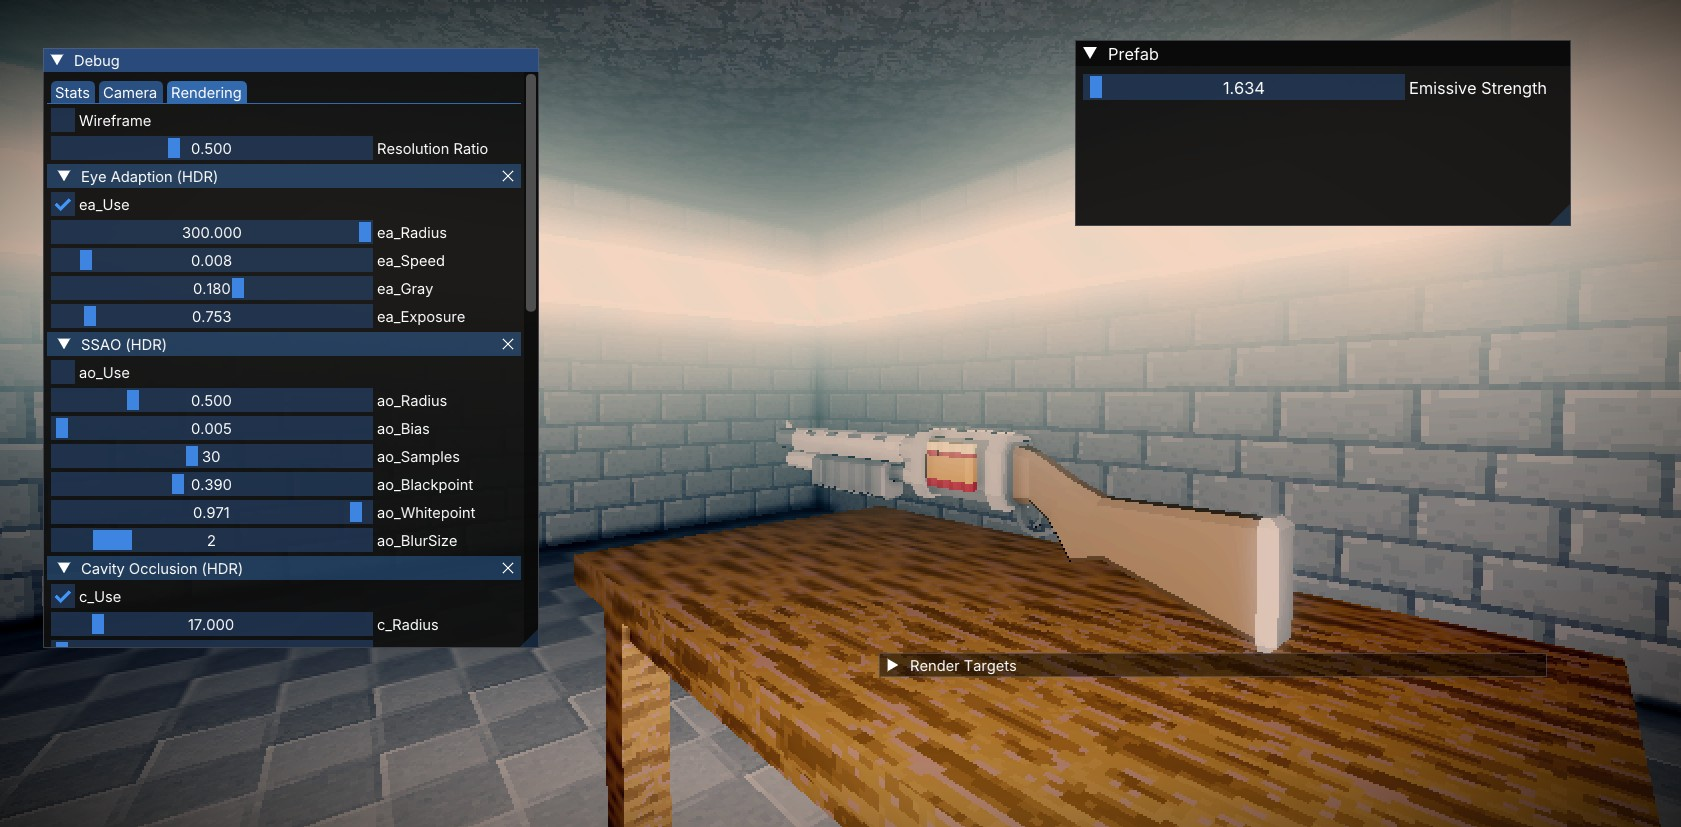
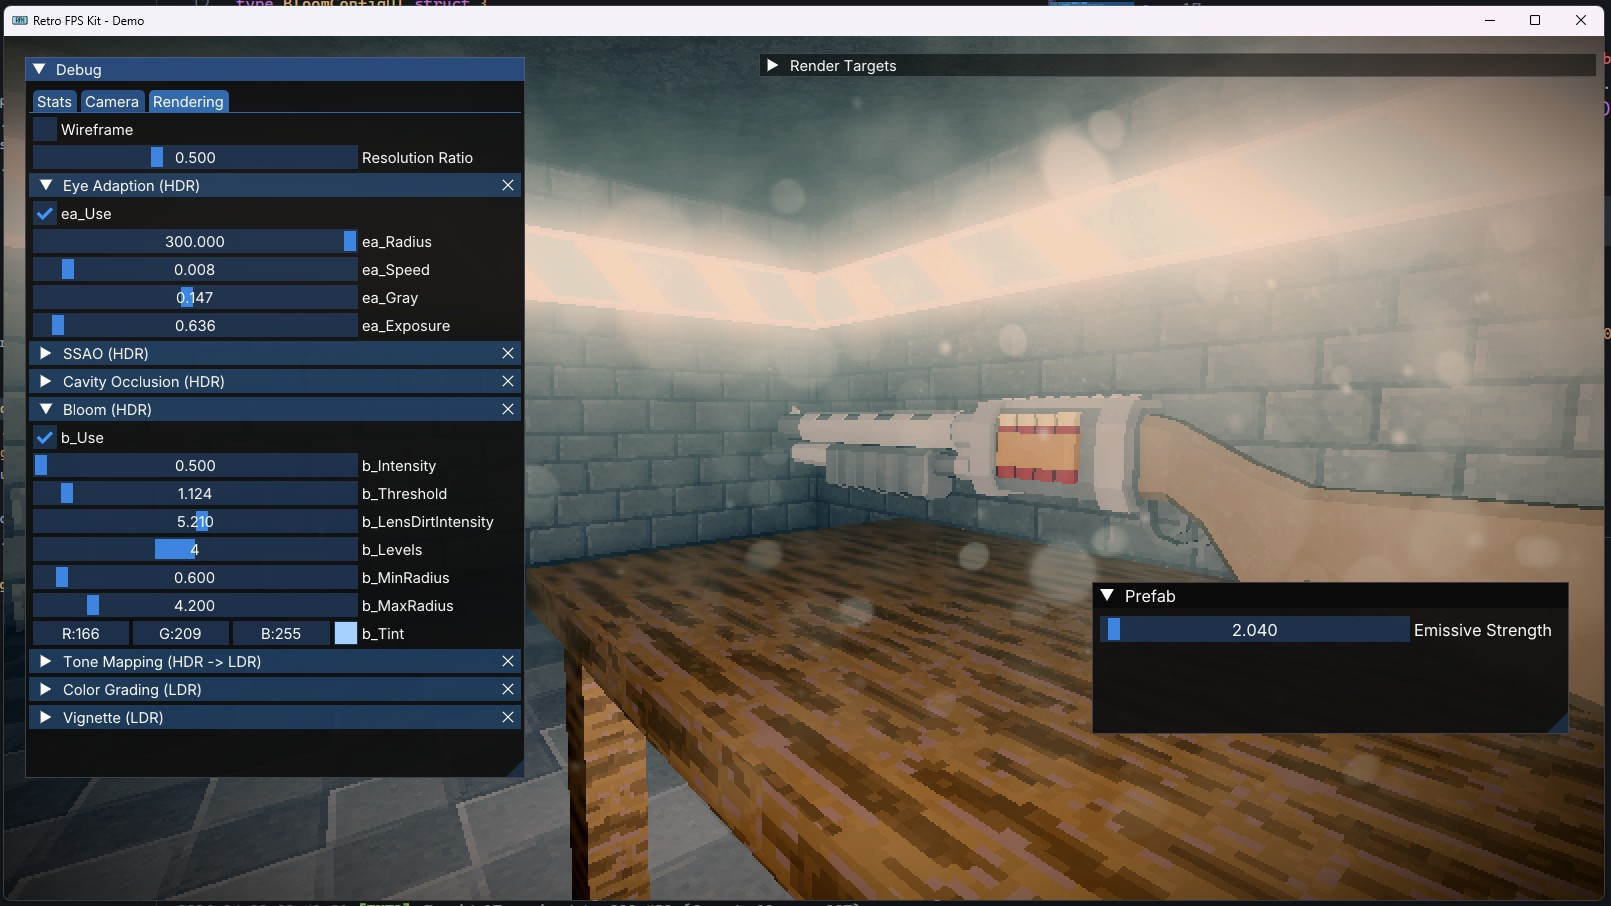
bloom lens dirt

diff --git a/pkg/app/defaults.go b/pkg/app/defaults.go
@@ -2,8 +2,12 @@ package app
 
 import (
 	"fmt"
+	"image"
+	"image/color"
+	"unsafe"
 
 	"github.com/illoprin/retro-fps-kit-go/pkg/core/files"
+	"github.com/illoprin/retro-fps-kit-go/pkg/core/logger"
 	"github.com/illoprin/retro-fps-kit-go/pkg/core/window"
 	"github.com/illoprin/retro-fps-kit-go/pkg/render/post"
 	"github.com/illoprin/retro-fps-kit-go/pkg/render/rhi"
@@ -47,13 +51,14 @@ var (
 	}
 
 	BloomConfig = &post.BloomConfig{
-		Use:       true,
-		Threshold: 1.124,
-		Levels:    4,
-		MinRadius: 0.6,
-		MaxRadius: 4.2,
-		Tint:      [3]float32{0.65, 0.82, 1.0},
-		Intensity: 1.6,
+		Use:               true,
+		Threshold:         1.124,
+		Levels:            4,
+		MinRadius:         0.6,
+		MaxRadius:         4.2,
+		LensDirtIntensity: 4.7,
+		Tint:              [3]float32{0.65, 0.82, 1.0},
+		Intensity:         0.7,
 	}
 
 	ToneMappingConfig = &post.ToneMappingConfig{
@@ -128,6 +133,10 @@ func NewDefaultPipeline(screen *window.ScreenConfig) (*DefaultPipeline, error) {
 		return nil, err
 	}
 
+	// lens dirt texture
+
+	var lensDirt *rhi.Texture = loadLensDirtTexture()
+
 	p.resources = append(p.resources, quad, noiseTexture, blurProg, compProg)
 
 	// create pass objects
@@ -164,7 +173,7 @@ func NewDefaultPipeline(screen *window.ScreenConfig) (*DefaultPipeline, error) {
 	}
 
 	// -- bloomPass
-	bloomPass, err := post.NewBloomPass(shared, BloomConfig)
+	bloomPass, err := post.NewBloomPass(shared, BloomConfig, lensDirt)
 	if err != nil {
 		p.Delete()
 		return nil, fmt.Errorf("bloom pass - %w", err)
@@ -230,6 +239,36 @@ func NewDefaultPipeline(screen *window.ScreenConfig) (*DefaultPipeline, error) {
 	})
 
 	return p, nil
+}
+
+func loadLensDirtTexture() (lensDirt *rhi.Texture) {
+	W, H, img, err := files.LoadImage(files.GetTexturePath("lens_dirt.png"))
+
+	if err != nil {
+		logger.Warnf("lens dirt not found")
+		return nil
+	}
+
+	var x, y int
+	lensDirtImage := image.NewGray(img.Bounds())
+	for i := 0; i < W*H; i++ {
+		x = i % W
+		y = i / W
+		r, _, _, _ := img.At(x, y).RGBA()
+		lensDirtImage.Set(x, H-y-1, color.Gray{Y: uint8(r)})
+	}
+
+	if len(lensDirtImage.Pix) <= 0 {
+		return nil
+	}
+
+	lensDirtConfig := rhi.DefaultTexture2DConfig(int32(W), int32(H))
+	lensDirtConfig.Format = rhi.FormatR8
+	lensDirtConfig.FilterMin = rhi.FilterLinear
+	lensDirtConfig.FilterMag = rhi.FilterLinear
+	lensDirt = rhi.NewTexture(lensDirtConfig)
+	lensDirt.Upload2D(0, 0, unsafe.Pointer(&lensDirtImage.Pix[0]))
+	return lensDirt
 }
 
 func (p *DefaultPipeline) Delete() {

diff --git a/pkg/render/post/bloom.go b/pkg/render/post/bloom.go
@@ -6,6 +6,7 @@ import (
 
 	"github.com/go-gl/gl/v4.1-core/gl"
 	"github.com/illoprin/retro-fps-kit-go/pkg/core/files"
+	"github.com/illoprin/retro-fps-kit-go/pkg/core/logger"
 	"github.com/illoprin/retro-fps-kit-go/pkg/core/window"
 	"github.com/illoprin/retro-fps-kit-go/pkg/render/context"
 	"github.com/illoprin/retro-fps-kit-go/pkg/render/pipeline"
@@ -13,13 +14,14 @@ import (
 )
 
 type BloomConfig struct {
-	Use       bool
-	Threshold float32
-	Levels    int32
-	MinRadius float32
-	MaxRadius float32
-	Tint      [3]float32
-	Intensity float32
+	Use               bool
+	Threshold         float32
+	Levels            int32
+	MinRadius         float32
+	MaxRadius         float32
+	LensDirtIntensity float32
+	Tint              [3]float32
+	Intensity         float32
 }
 
 // Blur radiuses:
@@ -43,6 +45,8 @@ type BloomPass struct {
 	combineProgram *rhi.Program
 	addProgram     *rhi.Program
 
+	lensDirt *rhi.Texture
+
 	mesh      *rhi.Mesh
 	screenCfg *window.ScreenConfig
 	cfg       *BloomConfig
@@ -53,12 +57,18 @@ type BloomPass struct {
 func NewBloomPass(
 	s PassSharedResources,
 	cfg *BloomConfig,
+	lensDirt *rhi.Texture,
 ) (*BloomPass, error) {
 
 	p := &BloomPass{
 		screenCfg: s.ScreenConfig,
 		mesh:      s.MeshQuad,
 		cfg:       cfg,
+		lensDirt:  lensDirt,
+	}
+
+	if lensDirt == nil {
+		logger.Warnf("failed to resolve lens dirt texture")
 	}
 
 	if err := p.initFramebuffers(); err != nil {
@@ -98,6 +108,7 @@ func (p *BloomPass) GetDebugTextures() []DebugTexture {
 	return []DebugTexture{
 		{"bloom.blur", p.blur.GetColorTexture(0)},
 		{"bloom.color", p.result.GetColorTexture(0)},
+		{"bloom.lens_dirt", p.lensDirt},
 	}
 }
 
@@ -270,8 +281,18 @@ func (p *BloomPass) RenderPass(src *pipeline.DeferredRenderResult) {
 	p.blur.GetColorTexture(0).BindToUnit(1)
 	p.combineProgram.Set1i("u_bloom", 1)
 
+	// bloom params
 	p.combineProgram.Set1f("u_intensity", p.cfg.Intensity)
 	p.combineProgram.Set3f("u_tint", p.cfg.Tint)
+
+	// lens params
+	p.combineProgram.Set1i("u_use_lens", 1)
+	if p.lensDirt != nil {
+		p.lensDirt.BindToUnit(2)
+		p.combineProgram.Set1i("u_lens", 2)
+		p.combineProgram.Set1i("u_use_lens", 1)
+		p.combineProgram.Set1f("u_lens_intensity", p.cfg.LensDirtIntensity)
+	}
 
 	p.mesh.Draw()
 }

diff --git a/pkg/core/files/image.go b/pkg/core/files/image.go
@@ -1,0 +1,25 @@
+package files
+
+import (
+	"fmt"
+	"image"
+	_ "image/png"
+	"os"
+)
+
+func LoadImage(f string) (int, int, image.Image, error) {
+	file, err := os.Open(f)
+	if err != nil {
+		return 0, 0, nil, fmt.Errorf("failed to open file")
+	}
+	defer file.Close()
+
+	img, _, err := image.Decode(file)
+	if err != nil {
+		return 0, 0, nil, fmt.Errorf("failed to decode image")
+	}
+
+	W, H := img.Bounds().Dx(), img.Bounds().Dy()
+
+	return W, H, img, nil
+}

diff --git a/pkg/app/ui/config_edit.go b/pkg/app/ui/config_edit.go
@@ -38,6 +38,7 @@ func (c *BloomConfigUI) ShowUI() {
 	imgui.Checkbox("b_Use", &c.Use)
 	imgui.SliderFloat("b_Intensity", &c.Intensity, 0.5, 10.0)
 	imgui.SliderFloat("b_Threshold", &c.Threshold, 0.3, 10.0)
+	imgui.SliderFloat("b_LensDirtIntensity", &c.LensDirtIntensity, 0, 10.0)
 	imgui.SliderInt("b_Levels", &c.Levels, 1, 8)
 	imgui.SliderFloat("b_MinRadius", &c.MinRadius, 0.5, 2)
 	imgui.SliderFloat("b_MaxRadius", &c.MaxRadius, 1.0, 20.0)

diff --git a/README.md b/README.md
@@ -30,7 +30,7 @@
   - Базовая комплектация RFK предоставляет возможность контроля за внутренним состоянием _OpenGL_ и существующим конвеером рендеринга (выделением VRAM, создание FBO)
   - Пользователь имеет возможность создать свой конвеер или использовать интерфейс `AppAPI` (RenderGBuffer, RenderFlat)
 
-> **Движку насрать что рендерить** - хоть 2.5D шутер, хоть научная визуализация. Он предоставляет базовый пакет услуг. Вы можете **удалить `state` и `scene`** из `pkg` и написать свой функционал - RFK переварит!
+> **Движку насрать что рендерить** - хоть 2.5D шутер, хоть научная визуализация. Он предоставляет базовый пакет услуг. Вы можете \*\*удалить пакет `kit` из `pkg` и написать свой функционал - RFK переварит!
 
 ## 🛠 Стек технологий
 
